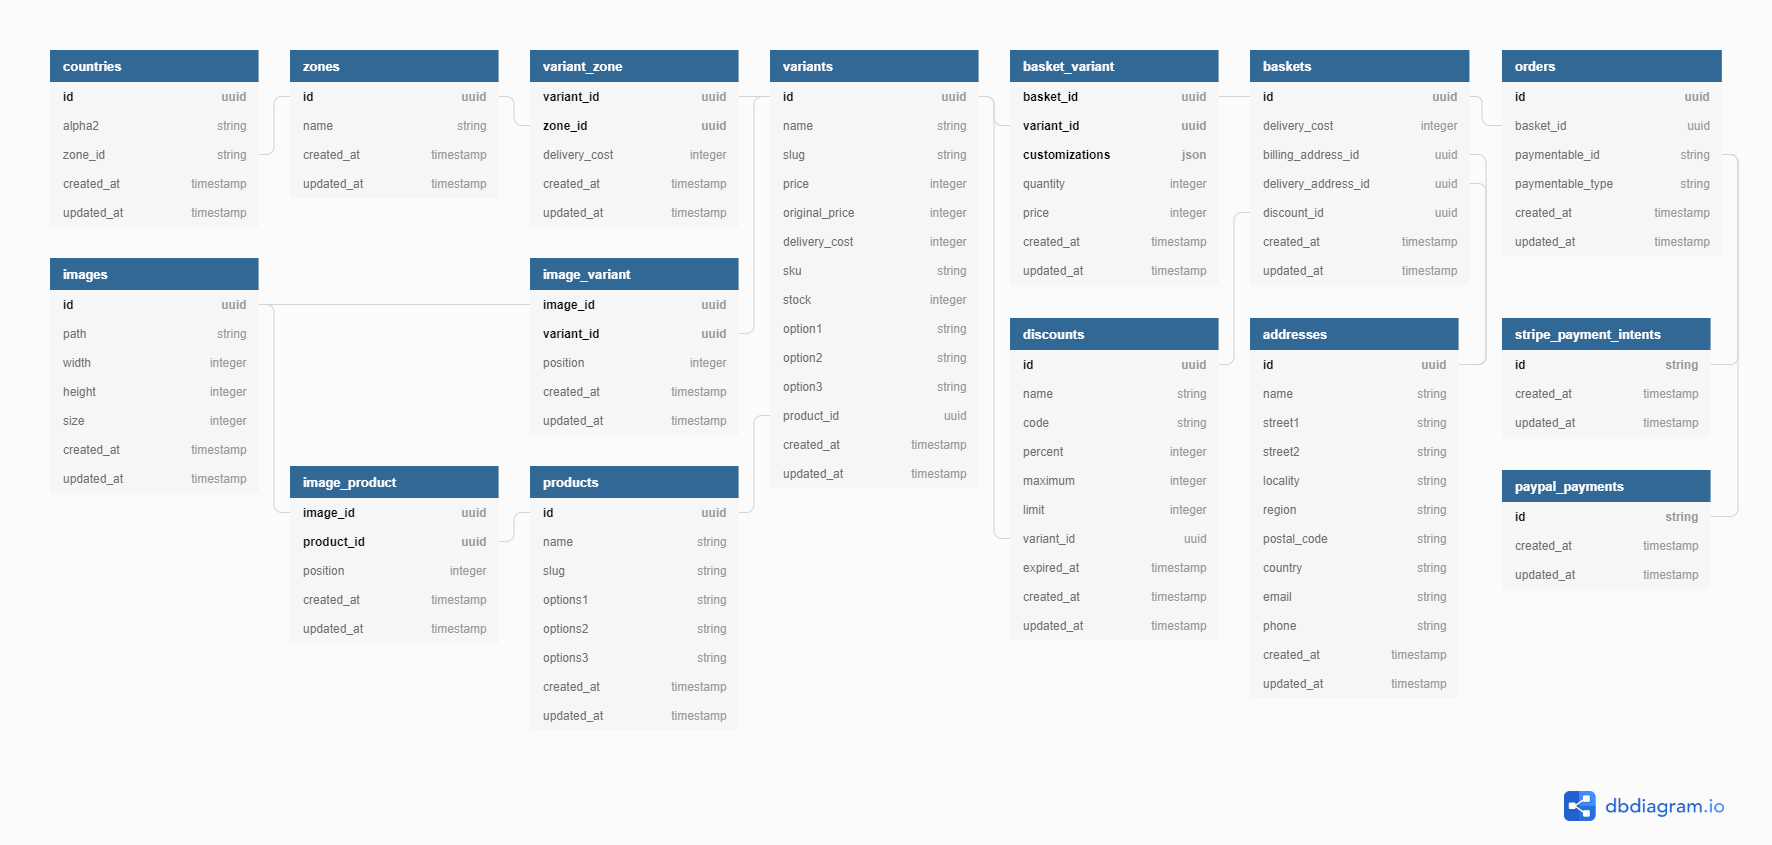
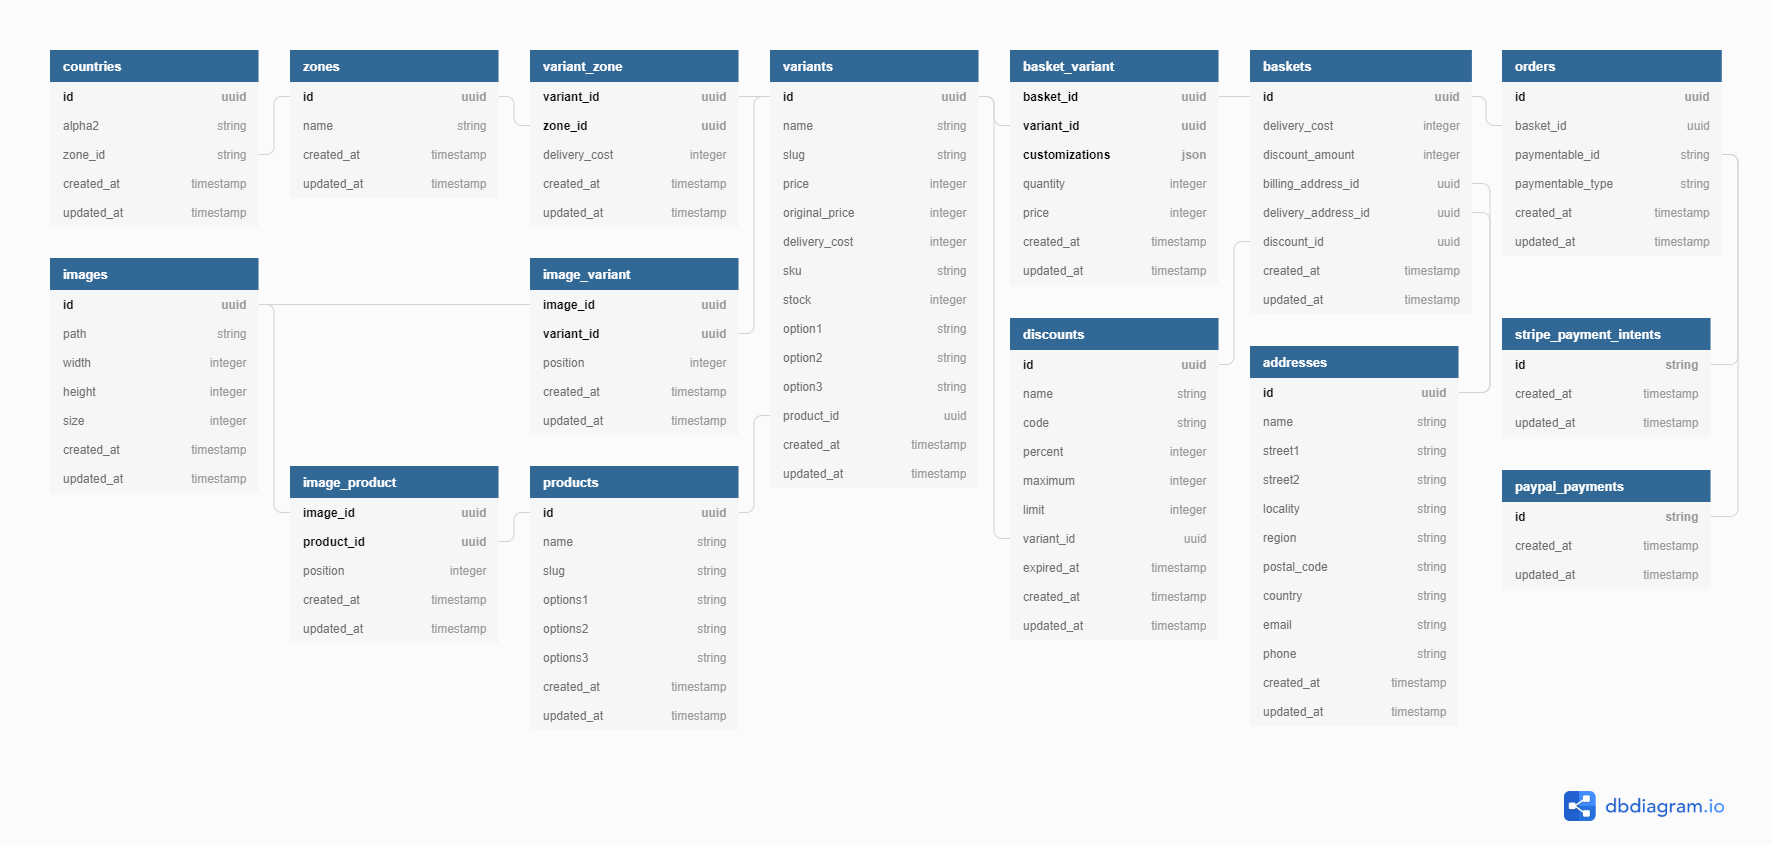
Add 'discount_amount' attribute to Basket model

diff --git a/tests/Feature/Basket/StoreTest.php b/tests/Feature/Basket/StoreTest.php
@@ -29,6 +29,7 @@ class StoreTest extends TestCase
                     'variants_count' => $basket->variants_count,
                     'subtotal' => $basket->subtotal,
                     'delivery_cost' => $basket->delivery_cost,
+                    'discount_amount' => $basket->discount_amount,
                     'delivery_address_id' => $basket->delivery_address_id,
                     'billing_address_id' => $basket->billing_address_id,
                     'discount_id' => $basket->discount_id,

diff --git a/tests/Feature/Basket/ShowTest.php b/tests/Feature/Basket/ShowTest.php
@@ -43,6 +43,7 @@ class ShowTest extends TestCase
                     'variants_count' => $basket->variants_count,
                     'subtotal' => $basket->subtotal,
                     'delivery_cost' => $basket->delivery_cost,
+                    'discount_amount' => $basket->discount_amount,
                     'delivery_address_id' => $basket->delivery_address_id,
                     'billing_address_id' => $basket->billing_address_id,
                     'discount_id' => $basket->discount_id,

diff --git a/database/migrations/2019_07_14_001000_create_baskets_table.php b/database/migrations/2019_07_14_001000_create_baskets_table.php
@@ -11,6 +11,7 @@ class CreateBasketsTable extends Migration
         Schema::create('baskets', function (Blueprint $table) {
             $table->uuid('id')->primary();
             $table->unsignedInteger('delivery_cost')->nullable();
+            $table->unsignedInteger('discount_amount')->nullable();
             $table->uuid('billing_address_id')->nullable();
             $table->uuid('delivery_address_id')->nullable();
             $table->uuid('discount_id')->nullable();

diff --git a/src/Http/Resources/Basket.php b/src/Http/Resources/Basket.php
@@ -13,6 +13,7 @@ class Basket extends JsonResource
             'variants_count' => $this->variants_count ?? 0,
             'subtotal' => $this->subtotal,
             'delivery_cost' => $this->delivery_cost,
+            'discount_amount' => $this->discount_amount,
             'billing_address_id' => $this->billing_address_id,
             'delivery_address_id' => $this->delivery_address_id,
             'discount_id' => $this->discount_id,

diff --git a/src/Basket.php b/src/Basket.php
@@ -15,10 +15,12 @@ class Basket extends Model
     protected $casts = [
         'variants_count' => 'integer',
         'delivery_cost' => 'integer',
+        'discount_amount' => 'integer',
     ];
 
     protected $fillable = [
         'delivery_cost',
+        'discount_amount',
     ];
 
     protected $withCount = ['variants'];
